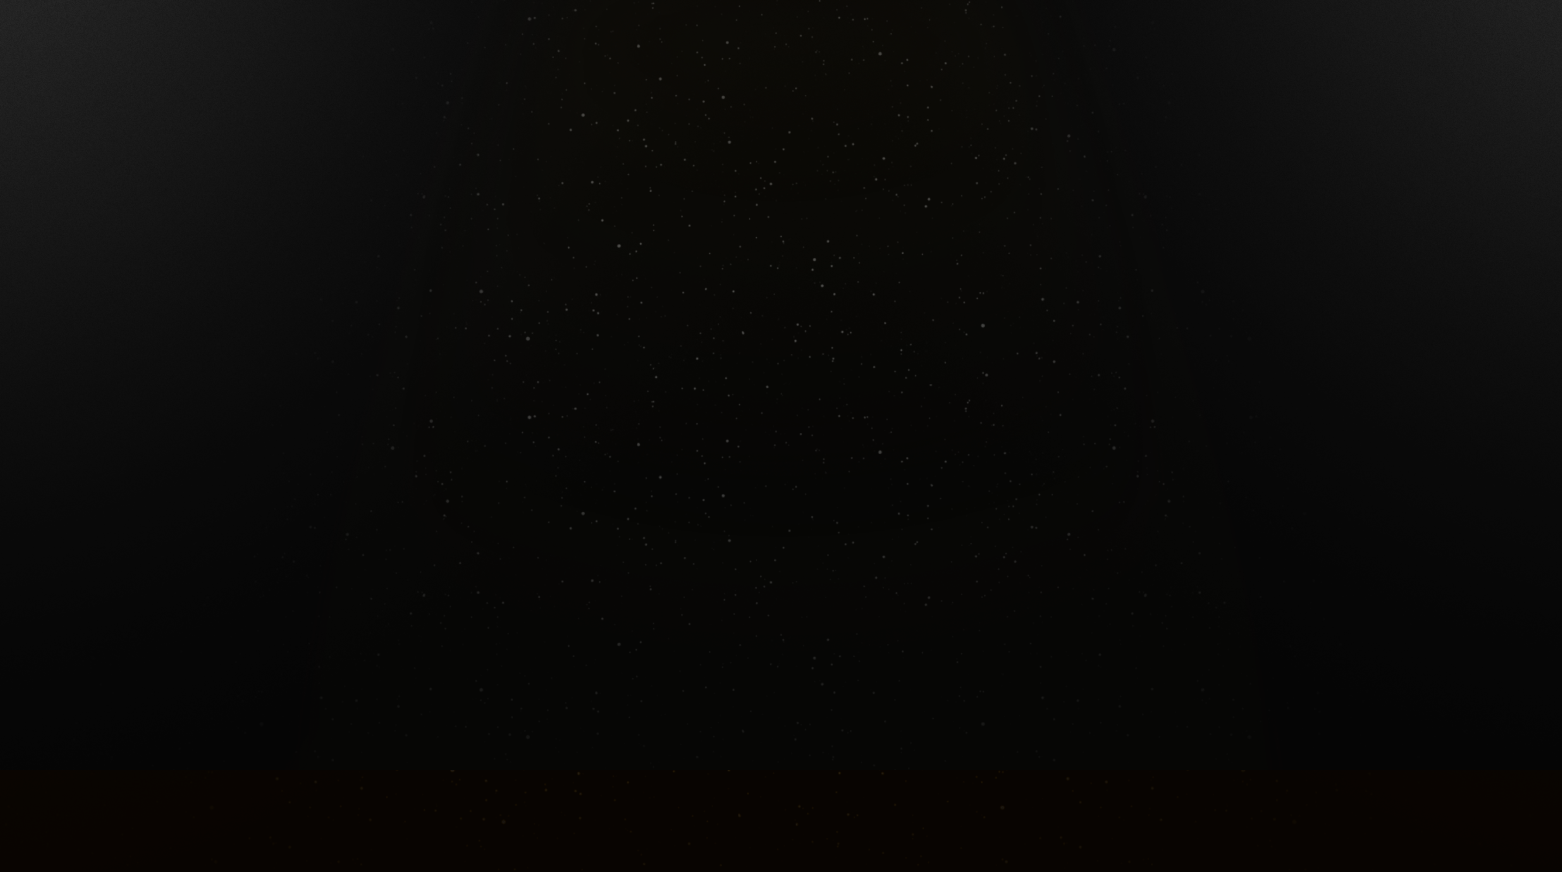
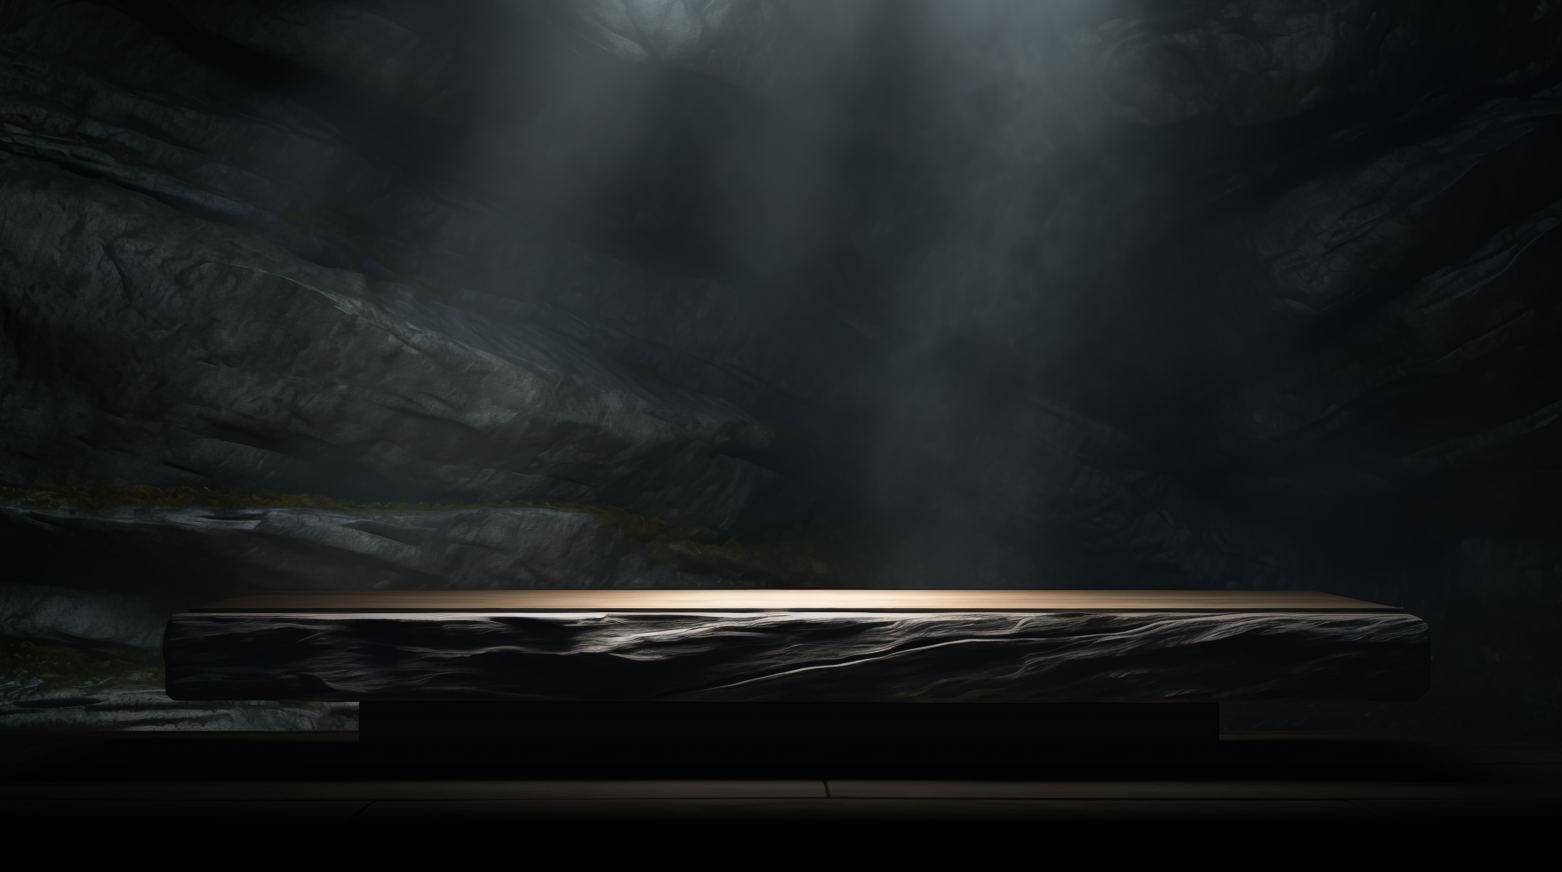
process

diff --git a/app/games/poker/(components)/PokerCombination.tsx b/app/games/poker/(components)/PokerCombination.tsx
@@ -7,7 +7,8 @@ export const PokerCombination = ({
   combinationName,
   tokenImage,
   multiplier,
-  className
+  className,
+  profit
 }: PokerCombinationProps) => {
   const [apper, setApper] = useState(false)
   const [invisible, setInvisible] = useState(false)
@@ -15,55 +16,42 @@ export const PokerCombination = ({
     GameModel.setGameStatus,
     GameModel.setIsPlaying
   ])
-  const [disable, setDisable] = useState(true)
   useEffect(() => {
-    // const winBlock = document.getElementById('apples_win_block')
     setTimeout(() => {
-      // winBlock?.classList.add(s.block_appearing)
       setApper(true)
       setTimeout(() => {
-        setDisable(false)
+        setApper(false)
+        setInvisible(true)
         setTimeout(() => {
-          // winBlock?.classList.remove(s.block_appearing)
-          setApper(false)
-          setInvisible(true)
-          setTimeout(() => {
-            setGameStatus(GameModel.GameStatus.Draw)
-          }, 1500)
-        }, 1900)
-      }, 1500)
-    }, 1100)
+          setGameStatus(GameModel.GameStatus.Draw)
+        }, 1500)
+      }, 2000)
+    }, 500)
   }, [])
   return (
     <article
-      className={`w-[220px] bg-black duration-1000 py-5 px-[15px] sm:p-[30px] absolute top-1/2 left-1/2 -translate-x-1/2 -translate-y-1/2 z-[3] min-w-max flex flex-col items-center rounded-[12px] ${
+      className={`w-[250px] sm:w-[309px] bg-transparent duration-1000 py-4 sm:pt-[25px] sm:pb-5 absolute top-7 sm:top-[65px] 4xl:top-[114px] left-1/2 -translate-x-1/2 -translate-y-0 sm:translate-y-0 z-[3] flex flex-col items-center rounded-[12px] gap-2.5 sm:gap-[14px]  ${
         apper ? 'opacity-[1] visible' : 'opacity-[0] invisible'
       }`}
     >
-      <h3 className='text-xl sm:text-2xl tmd:text-4xl font-black leading-[90%] bg-[linear-gradient(114deg,_#f8eeb8_-4.17%,_#dbb370_59.03%,_#8e5b2d_112.39%)] text-transparent bg-clip-text uppercase'>
-        {combinationName}
-      </h3>
-      <span className='text-xl sm:text-2xl tmd:text-4xl font-black leading-[90%] bg-[linear-gradient(114deg,_#f8eeb8_-4.17%,_#dbb370_59.03%,_#8e5b2d_112.39%)] text-transparent bg-clip-text uppercase'>
+      <span className='text-base sm:text-xl font-bold leading-[100%] sm:leading-[18px] bg-[linear-gradient(114deg,_#f8eeb8_-4.17%,_#dbb370_59.03%,_#8e5b2d_112.39%)] text-transparent bg-clip-text uppercase'>
         you win
       </span>
-      <div className='flex items-center gap-3'>
+      <h3 className='text-lg sm:text-2xl font-bold leading-[100%] sm:leading-[21px] bg-[linear-gradient(114deg,_#f8eeb8_-4.17%,_#dbb370_59.03%,_#8e5b2d_112.39%)] text-transparent bg-clip-text uppercase text-center'>
+        {combinationName}
+      </h3>
+
+      <div className='flex items-center flex-col gap-2'>
         <div className='flex items-center gap-2.5'>
           <div>{tokenImage}</div>
-          <div className='text-center text-sm sm:text-base tmd:text-lg font-black leading-[90%] text-[#eaeaea]'>
-            12
+          <div className='text-center text-sm sm:text-xl font-bold leading-[18px] text-white'>
+            {profit}
           </div>
         </div>
-        <div className='text-sm sm:text-base leading-[90%] text-[#7e7e7e] font-bold text-center'>
+        <div className='text-sm sm:text-base leading-[90%] text-[#7E7E7E] font-bold text-center'>
           {multiplier}x
         </div>
       </div>
-      <button
-        disabled={disable}
-        onClick={() => setIsPlaying(true)}
-        className='bg-[linear-gradient(114deg,_#f8eeb8_-4.17%,_#dbb370_59.03%,_#8e5b2d_112.39%)] text-[#0f0f0f] leading-normal font-extrabold text-sm sm:text-lg tracking-wide py-2 p-1.5 sm:py-3 sm:px-2.5 rounded-[5px] sm:rounded-[12px] w-44 sm:w-64 h-10 sm:h-[50px] mt-4'
-      >
-        Bet
-      </button>
     </article>
   )
 }

diff --git a/app/games/thimbles_3/(components)/Thimble.tsx b/app/games/thimbles_3/(components)/Thimble.tsx
@@ -1,5 +1,6 @@
 import Image from 'next/image'
-import { MutableRefObject, RefObject } from 'react'
+import { MutableRefObject, RefObject, useEffect, useState } from 'react'
+import { ThimbleSVG } from './icons'
 
 const Thimble = ({
   ind,
@@ -22,6 +23,16 @@ const Thimble = ({
   animatedRefs: MutableRefObject<RefObject<HTMLDivElement>[]>
   openBall?: boolean
 }) => {
+  const [localPlay, setLocalPlay] = useState(false)
+
+  useEffect(() => {
+    if (isPlaying) {
+      setTimeout(() => setLocalPlay(true), 600)
+    } else {
+      setLocalPlay(false)
+    }
+  }, [isPlaying])
+
   return (
     <div
       key={ind}
@@ -35,25 +46,22 @@ const Thimble = ({
       ref={animatedRefs.current[ind]}
     >
       {activeThimble === ind || openGame == ind ? (
-        <Image
+        <ThimbleSVG
           width={179}
           height={144}
-          src='/images/thimbles/activeThimble.png'
-          className={`absolute select-none z-[2] transition-all duration-400
+          className={`absolute select-none z-[2] transition-all duration-400 thible
                     w-[71px] h-[57px] sm:w-[127px] sm:h-[103px] xl:w-[179px] xl:h-[144px] min-w-[71px] min-h-[57px] sm:min-w-[127px] sm:min-h-[103px] xl:min-w-[179px] xl:min-h-[144px] bottom-[45px] sm:bottom-[94px] tbb:bottom-[80px]
                     ${
                       selectedShow?.includes(ind) &&
                       'bottom-[45px] sm:bottom-[105px]'
                     }`}
-          alt='thimble'
         />
       ) : (
-        <Image
+        <ThimbleSVG
           width={179}
           height={144}
-          src='/images/thimbles/thimble.png'
-          className={`select-none z-[3] absolute bottom-0 transition-all duration-400
-                    w-[71px] h-[57px] sm:w-[127px] sm:h-[103px] xl:w-[179px] xl:h-[144px] min-w-[71px] min-h-[57px] sm:min-w-[127px] sm:min-h-[103px] xl:min-w-[179px] xl:min-h-[144px]
+          className={`select-none z-[3] absolute bottom-0 transition-all duration-400 
+                    w-[71px] h-[57px] sm:w-[127px] sm:h-[103px] xl:w-[179px] xl:h-[144px] in-w-[71px] min-h-[57px] sm:min-w-[127px] sm:min-h-[103px] xl:min-w-[179px] xl:min-h-[144px]
                     ${
                       selectedShow?.includes(ind) &&
                       'bottom-[45px] sm:bottom-[105px]'
@@ -61,11 +69,10 @@ const Thimble = ({
                     ${
                       !showAnimation &&
                       !openGame &&
-                      isPlaying &&
-                      'cursor-pointer'
+                      localPlay &&
+                      'cursor-pointer thible_select_animation'
                     }
                   `}
-          alt='thimble'
         />
       )}
       {(activeThimble === ind || openGame == ind || openBall) && (

diff --git a/app/games/poker/(components)/PokerCard.tsx b/app/games/poker/(components)/PokerCard.tsx
@@ -59,11 +59,14 @@ export const PokerCard: FC<PokerCardProps> = props => {
     <div
       ref={cardRef as RefObject<HTMLDivElement>}
       className={`
-        w-[15.5vw] h-[70px] rounded-[2.5px] xxs:h-[40%] xxs:w-[50%] xxs:min-w-[50px] xxs:min-h-[70px] duration-300
+        min-w-[58px] xxxs:min-w-[62px] w-[15.5vw] h-[70px] rounded-[2.5px] xxs:h-[40%] xxs:w-[50%] xxs:min-w-[73px] xxs:min-h-[70px] duration-300
         sm:w-[90px] sm:h-[125px] tb:w-full tb:h-[21.5vw] tmd:w-[140px] tmd:h-[190px] emd:w-full emd:h-[18vw] relative flex items-center justify-center med:h-[280px]
         ${
           isEmptyCard ? 'bg-[rgba(15,_15,_15,_0.4)] rounded-[10px] h-auto ' : ''
-        } ${isPlaying && 'hover:translate-y-[-5px] cursor-pointer'}`}
+        } ${
+        isPlaying &&
+        'sm:hover:translate-y-[-15px] hover:translate-y-[-5px] cursor-pointer'
+      }`}
       onClick={
         !isEmptyCard
           ? () => {
@@ -113,7 +116,7 @@ export const PokerCard: FC<PokerCardProps> = props => {
                 src={
                   card === 0 && coat === 0
                     ? `/images/cards/back.png`
-                    : `${api.BaseStaticUrl}/media/games_assets/poker/${coat}/${card}.svg`
+                    : `/images/cards/${coat}/${card}.svg`
                 }
                 // src={`/images/cards/${coat}/${card}.svg`}
                 alt='card-image'
@@ -143,7 +146,7 @@ export const PokerCard: FC<PokerCardProps> = props => {
                 src={
                   card === 0 && coat === 0
                     ? `/images/cards/back.png`
-                    : `${api.BaseStaticUrl}/media/games_assets/poker/${coat}/${card}.svg`
+                    : `/images/cards/${coat}/${card}.svg`
                 }
                 alt='card-image'
                 width={200}

diff --git a/components/layouts/game/(components)/game.play-block.tsx b/components/layouts/game/(components)/game.play-block.tsx
@@ -50,7 +50,8 @@ const GamePlayBlock = () => {
     setFinishGame,
     redrawCards,
     setRedrawCards,
-    setBackCards
+    setBackCards,
+    showAnimation
   ] = useUnit([
     WagerModel.$error,
     GameModel.setIsPlaying,
@@ -77,7 +78,8 @@ const GamePlayBlock = () => {
     GameModel.setFinishGame,
     GameModel.$redrawCards,
     GameModel.setRedrawCards,
-    GameModel.setBackCards
+    GameModel.setBackCards,
+    GameModel.$showAnimation
   ])
 
   const path = usePathname()
@@ -89,6 +91,7 @@ const GamePlayBlock = () => {
   const [isRPS, setIsRPS] = useState(false)
   const [coinflipGame, setCoinflipGame] = useState(false)
   const [isPoker, setIsPoker] = useState(false)
+  const [isThimbles, setIsThimbles] = useState(false)
 
   const [rocketDelay, setRocketDelay] = useState(0)
   const [rocketInGame, setRocketInGame] = useState(false)
@@ -148,6 +151,11 @@ const GamePlayBlock = () => {
       setIsPoker(true)
     } else {
       setIsPoker(false)
+    }
+    if (path.includes('thimbles_3')) {
+      setIsThimbles(true)
+    } else {
+      setIsThimbles(false)
     }
   }, [path])
 
@@ -268,7 +276,9 @@ const GamePlayBlock = () => {
           (isRPS && isPlaying) ||
           (isRocket && rocketInGame) ||
           (redrawCards && isPoker) ||
-          (isPoker && pokerDelay)
+          (isPoker && pokerDelay) ||
+          (isThimbles && isPlaying) ||
+          (isThimbles && showAnimation)
         }
         onClick={handlePlay}
         variant='wagerPlay'

diff --git a/app/games/thimbles_3/(components)/ThimblesGame.tsx b/app/games/thimbles_3/(components)/ThimblesGame.tsx
@@ -35,7 +35,9 @@ export const ThimblesGame: FC<ThimblesGameProps> = () => {
     userInfo,
     gamesList,
     socketReset,
-    access_token
+    access_token,
+    showAnimation,
+    setShowAnimation
   ] = useUnit([
     GameModel.setGameStatus,
     GameModel.setLostStatus,
@@ -54,13 +56,14 @@ export const ThimblesGame: FC<ThimblesGameProps> = () => {
     UserModel.$userInfo,
     GameModel.$gamesList,
     UserModel.$socketReset,
-    RegistrModel.$access_token
+    RegistrModel.$access_token,
+    GameModel.$showAnimation,
+    GameModel.setShowAnimation
   ])
   const [activeThimble, setActiveThimble] = useState<number | null>(null) //0,1,2
   const [thimbles, setThimbles] = useState([0, 0, 0])
   const [openGame, setOpenGame] = useState<number | null>(1)
   const [startGame, setStartGame] = useState(false)
-  const [showAnimation, setShowAnimation] = useState(false)
   const [selected, setSelected] = useState<null | number>(null)
   const [subscribed, setCubscribed] = useState(false)
   const [selectedShow, setSelectedShow] = useState<number[] | null>(null)
@@ -216,6 +219,12 @@ export const ThimblesGame: FC<ThimblesGameProps> = () => {
         }, 2000)
       ]
   }, [selected])
+
+  // useEffect(() => {
+  //   return () => {
+  //     setShowAnimation(false)
+  //   }
+  // })
 
   return (
     <section className='h-full flex flex-col items-center flex-[1_1_auto] thimbles_table_wrap'>

diff --git a/app/globals.scss b/app/globals.scss
@@ -1614,3 +1614,39 @@ input[type='number'] {
   border-image-slice: 1;
   border-radius: 5px;
 }
+
+.thible {
+  filter: drop-shadow(0px 0px 25px #e78137);
+  @media (max-width: 650px) {
+    filter: drop-shadow(0px 0px 12px #e78137);
+  }
+}
+
+.thible_select_animation {
+  animation: thibmle_select 1s infinite;
+}
+
+@keyframes thibmle_select {
+  0% {
+    filter: drop-shadow(0px 0px 15px transparent);
+  }
+  50% {
+    filter: drop-shadow(0px 0px 25px #e78137);
+  }
+  100% {
+    filter: drop-shadow(0px 0px 15px transparent);
+  }
+}
+@media (max-width: 650px) {
+  @keyframes thibmle_select {
+    0% {
+      filter: drop-shadow(0px 0px 5px transparent);
+    }
+    50% {
+      filter: drop-shadow(0px 0px 10px rgb(255, 140, 57));
+    }
+    100% {
+      filter: drop-shadow(0px 0px 5px transparent);
+    }
+  }
+}

diff --git a/api/index.ts b/api/index.ts
@@ -2,8 +2,8 @@ import { UserType } from '@/states/user_model.store'
 import { createEffect, createEvent } from 'effector'
 import { JWT } from 'next-auth/jwt'
 
-export const BaseApiUrl = '/api'
-export const BaseStaticUrl = '/static'
+export const BaseApiUrl = 'https://rew.greekkeepers.io/api'
+export const BaseStaticUrl = 'https://rew.greekkeepers.io/static'
 export const P2WayUrl = 'https://stage.p2way.fyi'
 export type T_ErrorText = {
   error: string

diff --git a/app/games/poker/(components)/Poker.tsx b/app/games/poker/(components)/Poker.tsx
@@ -6,7 +6,7 @@ import { sendSocketData } from '@/lib/utils/game.send'
 import { useSubscibeBets } from '@/lib/utils/subscibe'
 import { useUnSubscribe } from '@/lib/utils/unsubscube'
 import { useGetState } from '@/lib/utils/useGetState'
-import tableBg from '@/public/images/poker_images/pokerBgImage.webp'
+import tableBg from '@/public/images/poker_images/pokerBgImage_2.png'
 import {
   GameModel,
   PokerModel,

diff --git a/states/game_model.store.ts b/states/game_model.store.ts
@@ -295,3 +295,10 @@ $btnsActive.on(setBtnsActive, (_, state) => state)
 $activeStep.on(setActiveStep, (_, state) => state)
 $userCount.on(setUserCount, (_, state) => state)
 $dilerCount.on(setDilerCount, (_, state) => state)
+
+//! THIMBLES
+
+export const $showAnimation = createStore<boolean>(false)
+
+export const setShowAnimation = createEvent<boolean>()
+$showAnimation.on(setShowAnimation, (_, state) => state)

diff --git a/tailwind.config.js b/tailwind.config.js
@@ -78,7 +78,7 @@ module.exports = {
       screens: {
         '2xl': '1400px',
         '3xl': '1800px',
-        '4xl': '1920px',
+        '4xl': '1925px',
         '5xl': '1980px',
         tb: '700px',
         tbb: '760px',

diff --git a/app/games/thimbles_3/(components)/icons/index.ts b/app/games/thimbles_3/(components)/icons/index.ts
@@ -1,0 +1,1 @@
+export { default as ThimbleSVG } from './thimble.svg'
